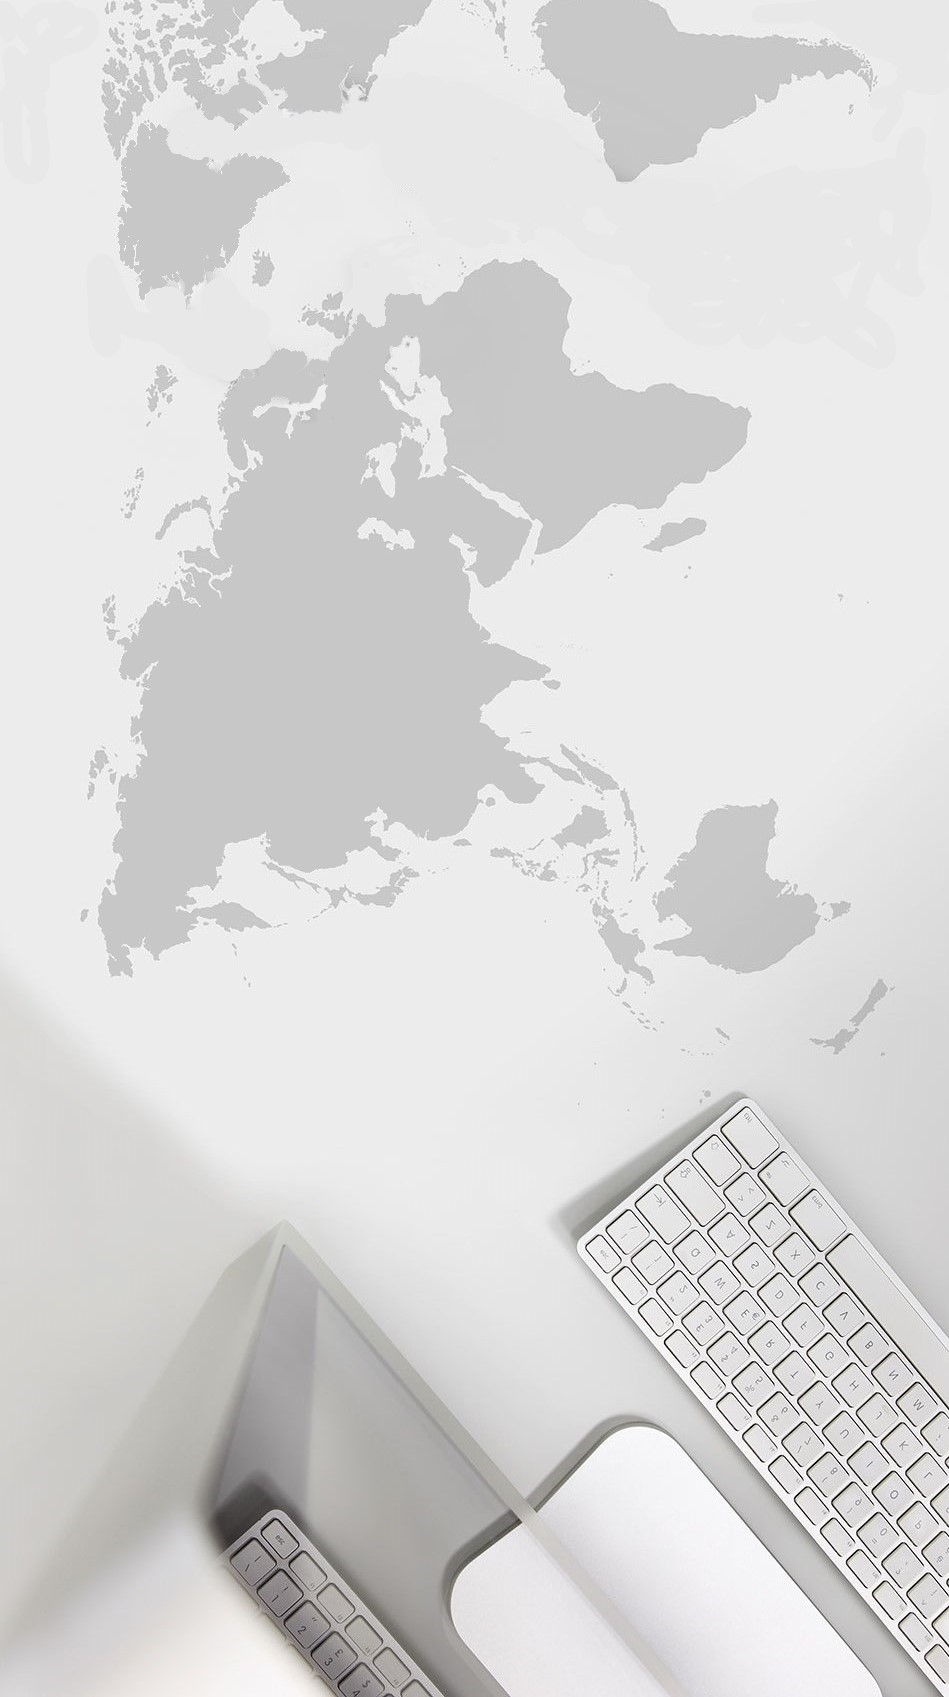
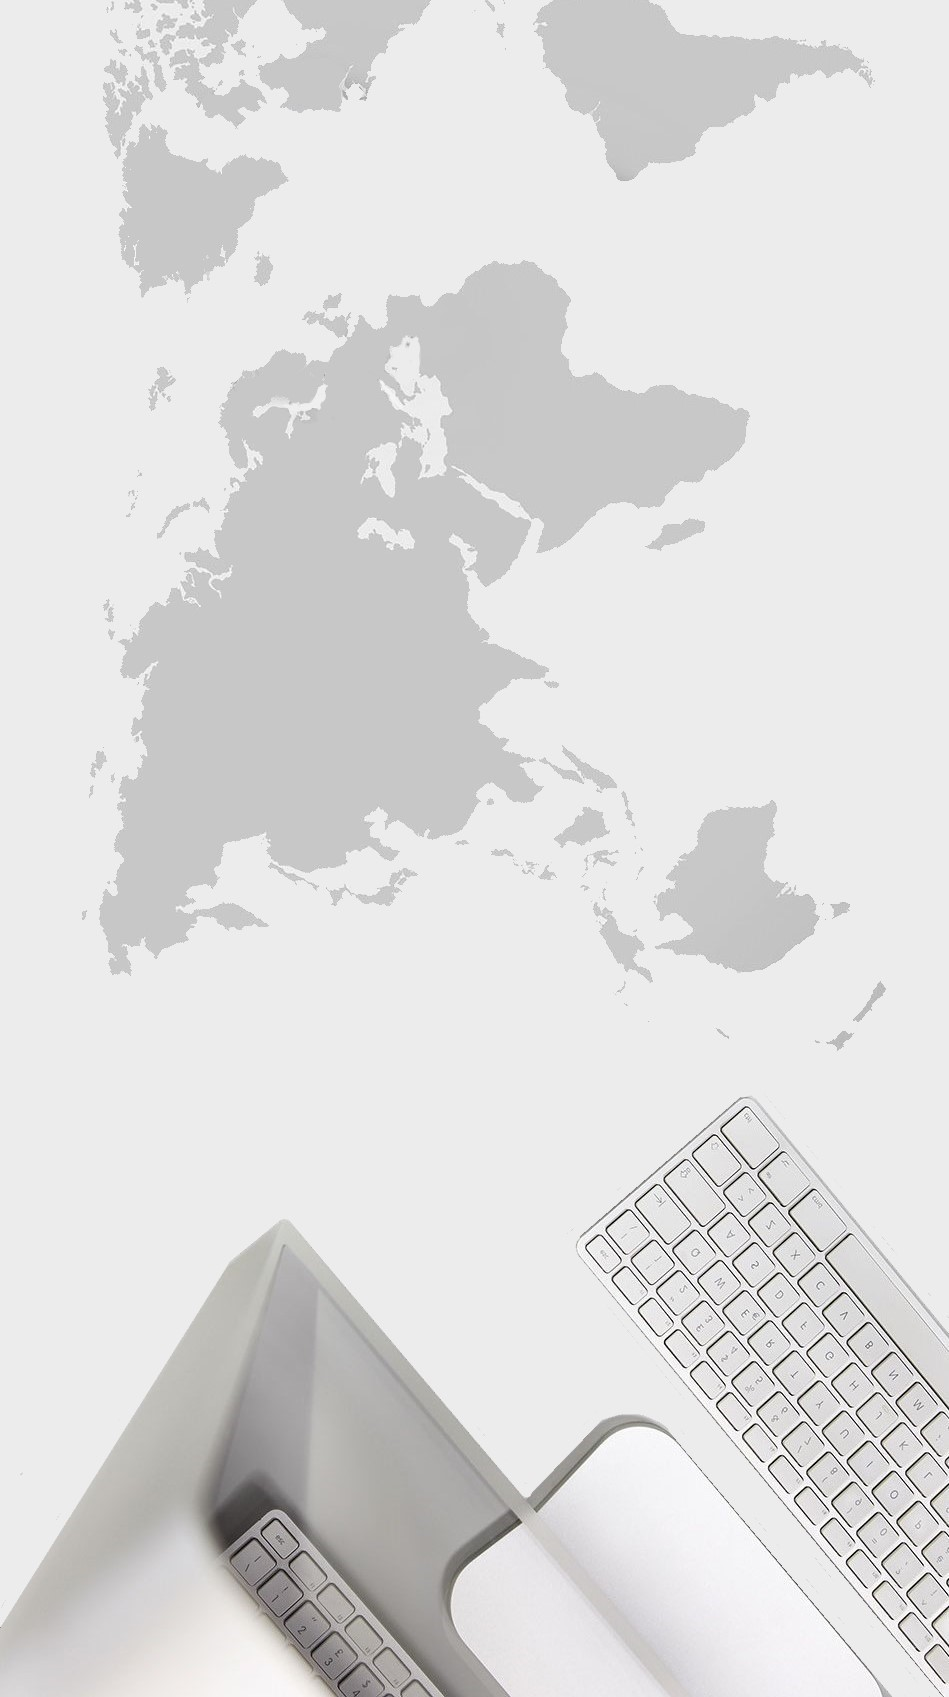
terminado el mapa de fondo en info de contacto

diff --git a/css/style.css b/css/style.css
@@ -1573,8 +1573,13 @@ a {
 
 #dark-mode:checked ~ .info {
   background-image: url(../imagenes/img-contacto/fondo-contacto-vertical-para-dark.jpg);
-  -webkit-filter: invert(99%) brightness(0.8);
-  filter: invert(99%) brightness(0.8);
+  -webkit-filter: invert(99%) brightness(0.9);
+  filter: invert(99%) brightness(0.9);
+}
+@media (max-width: 1024px) {
+  #dark-mode:checked ~ .info {
+    background-image: url(../imagenes/img-contacto/fondo-contacto-para-dark.jpg);
+  }
 }
 
 #dark-mode:checked ~ .formulario {

diff --git a/scss/themes/_contacto-dark.scss b/scss/themes/_contacto-dark.scss
@@ -1,6 +1,9 @@
 #dark-mode:checked ~ .info {
 	background-image: url(../imagenes/img-contacto/fondo-contacto-vertical-para-dark.jpg);
-	@include prefijos-filter(invert(99%) brightness(0.8));
+	@include prefijos-filter(invert(99%) brightness(0.9));
+	@media (max-width: 1024px) {
+		background-image: url(../imagenes/img-contacto/fondo-contacto-para-dark.jpg);
+	}
 }
 #dark-mode:checked ~ .formulario {
 	background-color: $color-detalle-fondo-dark-mode;
